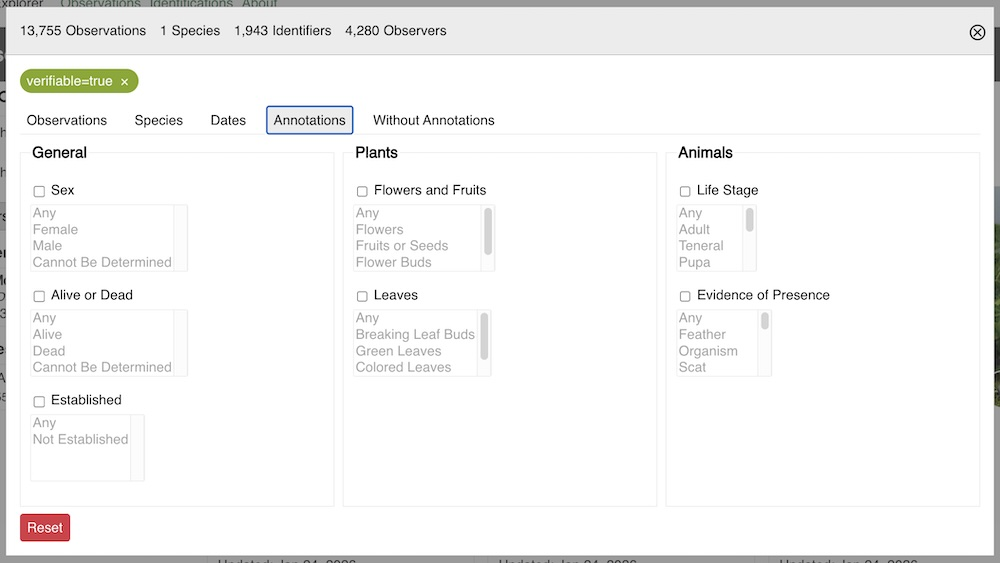
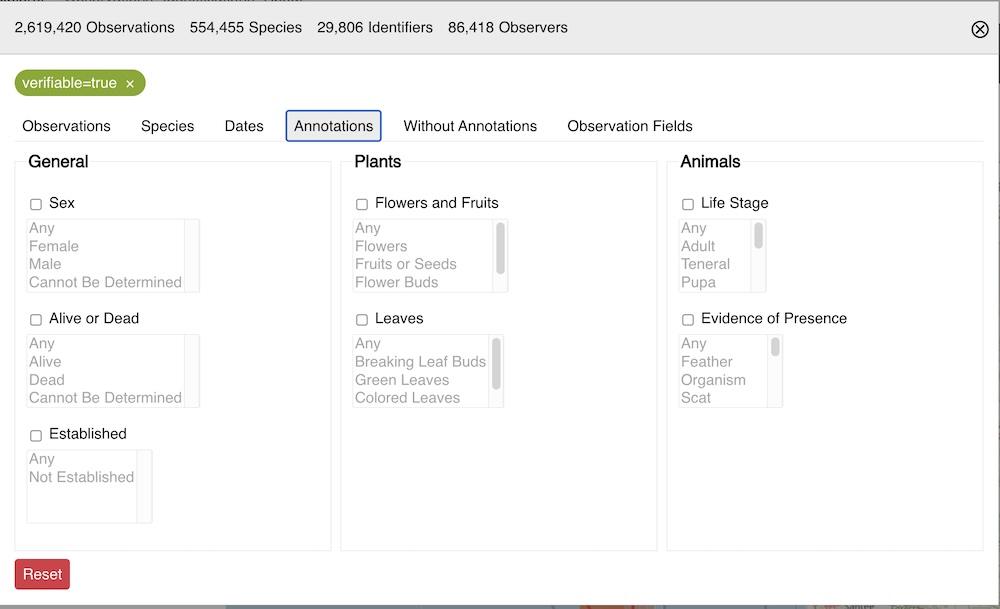
add instructions to about page

diff --git a/src/components/PageAbout/template.ts b/src/components/PageAbout/template.ts
@@ -8,14 +8,17 @@ import grid_ident from "../../assets/images/identifications_grid.jpg";
 import history_ident from "../../assets/images/identifications_history.jpg";
 import settings from "../../assets/images/settings.jpg";
 import custom_boundaries from "../../assets/images/custom_boundaries.jpg";
-import download from "../../assets/images/download.jpg";
+import inat_links from "../../assets/images/inat_links.jpg";
 import subspecies_results from "../../assets/images/subspecies_results.jpg";
 import subspecies_filters from "../../assets/images/subspecies_filters.jpg";
-
 import annotations from "../../assets/images/annotations.jpg";
 import filters from "../../assets/images/filters.jpg";
 import searchUsers from "../../assets/images/search_types.jpg";
 import map_layers from "../../assets/images/map_layers.jpg";
+import observation_fields from "../../assets/images/observation_fields.jpg";
+import observation_fields_eating from "../../assets/images/observation_fields_eating.jpg";
+import observation_fields_taxon from "../../assets/images/observation_fields_taxon.jpg";
+import fields_displayed from "../../assets/images/fields_displayed.jpg";
 
 export const template = html`
   <site-header></site-header>
@@ -34,6 +37,17 @@ export const template = html`
     <h2>Features</h2>
     <ol>
       <li>
+        Search observations by Species, iNaturalist places, Projects, Observers
+        (people who add observations), Identifiers(people who add
+        identifications), and Annotators (people who add annotations). Also
+        exclude items from search.
+        <img
+          src="${searchUsers}"
+          alt="dropdown search menu has options to search by species, places, projects, observers, identifiers, and annotators"
+        />
+      </li>
+
+      <li>
         Search for multiple species, places, projects, and people. Here's a
         search for
         <a
@@ -41,24 +55,54 @@ export const template = html`
           >monarchs and narrowleaf milkweed</a
         >
         in Los Angeles and San Diego.
+        <app-accordion
+          data-title="Instructions"
+          data-content="<ol>
+            <li>'Search for' should be 'Observed Species'</li>
+            <li>Type 'monarch' and select item in the popup menu</li>
+            <li>Type 'narrowleaf milkweed' and select item</li>
+            <li>Change 'Search for' to 'iNaturalist Places'</li>
+            <li>Type 'Los Angeles' and select item</li>
+            <li>Type 'San Diego' and select item</li>
+            <li>If you want to delete any of the selected item, click the 'X'</li>
+          </ol>"
+          data-id="multiple-records"
+        ></app-accordion>
         <img
           src="${observations}"
           alt="Monarch and narrowleaf milkweed observations in Los Angeles and San Diego."
         />
       </li>
+
       <li>
         View both observations and
         <a
           href="/identifications/?observation_taxon_id=48662,56851&place_id=962,829&colors=%234477aa,%2366ccee&verifiable=true&spam=false"
           >identifications</a
         >
+        <app-accordion
+          data-title="Instructions"
+          data-content="<ol>
+            <li>Click 'Identifications' in the top menu</li>
+          </ol>"
+          data-id="view-identifications"
+        ></app-accordion>
         <img
           src="${identifications}"
           alt="Monarch and narrowleaf milkweed identifications in Los Angeles and San Diego."
         />
       </li>
+
       <li>
         Show iNaturalist maps as grid, points, heatmap and taxon range
+        <app-accordion
+          data-title="Instructions"
+          data-content="<ol>
+            <li>Click on layers button in the upper right of the map</li>
+            <li>Click on the checkbox to turn on / turn off map layers.</li>
+          </ol>"
+          data-id="map-layers"
+        ></app-accordion>
         <img
           src="${map_layers}"
           alt="Map of monarch and narrowleaf milkweed observations in Los Angeles and San Diego. Map  allows user to select grid, points, heatmap, and taxon range. "
@@ -72,9 +116,18 @@ export const template = html`
         >
         as map, grid (one photo is displayed), media (all photos and audio are
         displayed), or table
+        <app-accordion
+          data-title="Instructions"
+          data-content="<ol>
+            <li>Click on 'Map', 'Grid', 'Media', or 'Table' button.</li>
+          </ol>"
+          data-id="change-subview"
+        ></app-accordion>
       </li>
+
       <li>
-        View annotations on grid and media
+        View annotations and observations fields on grid and media
+
         <figure>
           <figcaption>Grid view</figcaption>
           <img
@@ -97,6 +150,7 @@ export const template = html`
           />
         </figure>
       </li>
+
       <li>
         <a
           href="/identifications/?taxon_id=48662&place_id=962&colors=%234477aa&verifiable=true&spam=false&year=2025"
@@ -104,6 +158,14 @@ export const template = html`
         >
         as map, grid (one identification per observation), or history (all
         identifications per observation)
+        <app-accordion
+          data-title="Instructions"
+          data-content="<ol>
+            <li>Click 'Identifications' in the top menu</li>
+            <li>Click on 'Map', 'Grid', or 'History' button.</li>
+          </ol>"
+          data-id="identifications-subviews"
+        ></app-accordion>
         <figure>
           <figcaption>Grid view</figcaption>
           <img
@@ -119,38 +181,127 @@ export const template = html`
           />
         </figure>
       </li>
-      <li>Add more filters options</li>
+
+      <li>
+        Add over 50 options to filter the observations
+        <app-accordion
+          data-title="Instructions"
+          data-content="<ol>
+            <li>Click 'Filters' button. A popup modal will appear.</li>
+            <li>The filters are grouped by tabs and topics. Click on 'Observations',
+            'Species', etc to change tabs.</li>
+            <li>Click or select the filters you want. Hover over the circled
+            question mark to learn about each filter. </li>
+            <li>You can swlect one or more items from  rectanglar menus that
+            show multiple items such as 'Quality Grade' and 'License'. To select
+            multiple items you command click (Mac) or ctrl click (Windows), and
+            select one item at a item. You can also click and drag to select
+            multiple items.</li>
+            <li>When you select a filter, the counts on at the top of the modal
+            will be updated.</li>
+            <li>The selected filters will be shown at the top of modal as green
+            rounded rectangles. </li>
+            <li> Click on 'X' to delete one filter. If you want to delete all
+            filters, scroll to bottom of modal and click 'Reset' </li>
+          </ol>"
+          data-id="map-layers"
+        ></app-accordion>
+      </li>
+
       <li>
         Group the filters by categories
         <img src="${filters}" alt="Available filters" />
       </li>
+
       <li>
         Filter by annotations
+        <app-accordion
+          data-title="Instructions"
+          data-content="<ol>
+            <li>Click 'Filters' button.</li>
+            <li>Click 'Annotations' tab</li>
+            <li>Click one of the checkboxes to enable the corresponding selection menu</li>
+            <li>Select one or more items in the selection menu</li>
+          </ol>"
+          data-id="annotations"
+        ></app-accordion>
         <img src="${annotations}" alt="Available annotations filters" />
       </li>
+
       <li>
-        Search observations by Species, iNaturalist places, Projects, Observers
-        (people who add observations), Identifiers(people who add
-        identifications), and Annotators (people who add annotations). Also
-        exclude items from search.
+        Filter by observation fields
+        <app-accordion
+          data-title="Instructions"
+          data-content="<ol>
+            <li>Click 'Filters' button.</li>
+            <li>Click 'Observation Fields' tab</li>
+            <li>Type in observation field and select the item from the popup menu</li>
+            <li>If you want to fill in a value for the observation field, type in the value.</li>
+            <li>For some observation fields such as eating, the value is the name of species.
+            Type in the species name, and select the corresponding item from the popup menu.</li>
+          </ol>"
+          data-id="observation-fields"
+        ></app-accordion>
         <img
-          src="${searchUsers}"
-          alt="dropdown search menu has options to search by species, places, projects, observers, identifiers, and annotators"
+          src="${observation_fields}"
+          alt="Available observation fields filters"
         />
+        <figure>
+          <figcaption>Observation field popup menu for 'eating'</figcaption>
+          <img
+            src="${observation_fields_eating}"
+            alt="pop menu showing a list of observations fields that match the term 'eating'"
+          />
+        </figure>
+        <figure>
+          <figcaption>
+            Observation field 'eating' has species for the value. Type in
+            species name, and a popup menu will show list of matching species.
+          </figcaption>
+          <img
+            src="${observation_fields_taxon}"
+            alt="pop menu showing a list of species that match 'ray'"
+          />
+        </figure>
       </li>
+
       <li>
         Draw a rectangle to select observations within the rectangle
+        <app-accordion
+          data-title="Instructions"
+          data-content="<ol>
+            <li>Click square button on the upper left of the map</li>
+            <li>Click on the map to set one corner the rectangle.</li>
+            <li>Drag and click to select the second corner of the rectangle</li>
+            <li>'Custom Boundary' will be shown in 'Places'. </li>
+          </ol>"
+          data-id="bounding-box"
+        ></app-accordion>
         <img src="${custom_boundaries}" alt="" />
       </li>
+
       <li>
-        Display list of subspecies if tank rank lower than species is selected.
-        In this example, we search for
+        Display list of taxa with rank lower than species such as subspecies and
+        variety. In this example, we use to 'Rank' filter to select
         <a
           href="/?taxon_id=55412&colors=%234477aa&verifiable=true&spam=false&rank=infrahybrid,subspecies,variety&per_page=24&view=observations_species"
         >
-          infrahybrid,subspecies, and variety</a
+          infrahybrid,subspecies, and variety ranks</a
         >
         for Radishes (Genus Raphanus).
+        <app-accordion
+          data-title="Instructions"
+          data-content="<ol>
+            <li>set 'Search for' to 'Observed Species'</li>
+            <li>Type in 'radishes'</li>
+            <li>Click 'Species' in the dark header bar to see list of species.</li>
+            <li>Click 'Filters' button</li>
+            <li>Click 'Species' in the popup modal</li>
+            <li>Go to 'Rank', 'Rank'. Select one or more of the ranks. In this
+            example, we selected 'infrahybrid','subspecies','variety'.</li>
+          </ol>"
+          data-id="subspecies"
+        ></app-accordion>
         <img
           src="${subspecies_filters}"
           alt="Select subspecies ranks using the filters"
@@ -162,21 +313,85 @@ export const template = html`
       </li>
 
       <li>Mobile friendly layout</li>
+
       <li>Pagination for observations, species, identifiers, and observers</li>
-      <li>Set the order for species common names and Latin scientific names</li>
-      <li>Set the language for the species common names</li>
+
       <li>
-        Set the number of records show per page
+        Set the order for species common names and Latin scientific names
+        <app-accordion
+          data-title="Instructions"
+          data-content="<ol>
+            <li>Click on the gear icon to show the 'Settings' menu</li>
+            <li>Use the dropdown for 'Common / Scientific Name Display Order' to set
+            the order of the common and scientific taxa names.</li>
+          </ol>"
+          data-id="name-order"
+        ></app-accordion>
         <img
           src="${settings}"
           alt="Settings menu with common names/scientific names order, common names language, and records per page"
         />
       </li>
+
+      <li>
+        Set the language for the species common names
+        <app-accordion
+          data-title="Instructions"
+          data-content="<ol>
+            <li>Click on the gear icon to show the 'Settings' menu</li>
+            <li>Use the dropdown for 'Common Name Language' to set
+            the language for the species common names.</li>
+          </ol>"
+          data-id="name-order"
+        ></app-accordion>
+      </li>
+
+      <li>
+        Set the number of records show per page
+        <app-accordion
+          data-title="Instructions"
+          data-content="<ol>
+            <li>Click on the gear icon to show the 'Settings' menu</li>
+            <li>Use the dropdown for 'Records per Page' to set
+            the number of items to show.</li>
+          </ol>"
+          data-id="per-page"
+        ></app-accordion>
+      </li>
+
+      <li>
+        Set the fields that are displayed for the observations grid and media.
+        <app-accordion
+          data-title="Instructions"
+          data-content="<ol>
+            <li>Click on the gear icon to show the 'Settings' menu</li>
+            <li>Click the checkboxes for  'Fields Display' to set
+            which fields are displayed.</li>
+          </ol>"
+          data-id="display-fields"
+        ></app-accordion>
+        <img
+          src="${fields_displayed}"
+          alt="click checkbox to set  which fields are displayed"
+        />
+      </li>
+
       <li>
         Users can use the search queries created on this site for the iNaturlist
         Explore, Identify, and Export pages by clicking on the links in the
         iNaturalist Links menu.
-        <img src="${download}" alt="Links in the iNaturalist Links menu" />
+        <app-accordion
+          data-title="Instructions"
+          data-content="<ol>
+            <li>Use search and filters to select the observations you want</li>
+            <li>Click on the box with arrow icon to show the 'iNaturalist links' menu</li>
+            <li>Click 'Explore page', 'Identify page', or 'Export page' to go to
+           corresponding page on the iNaturalist site. Click 'Observations API' to view
+           the data retrieved from the iNaturalist observation API.</li>
+          </ol>"
+          data-id="inat-links"
+        ></app-accordion>
+        <img src="${inat_links}" alt="Links in the iNaturalist Links menu" />
       </li>
     </ol>
 

diff --git a/src/assets/style.css b/src/assets/style.css
@@ -1642,6 +1642,14 @@
     border: var(--border-grey);
     margin: 1rem 0;
   }
+
+  li {
+    margin: 1rem 0;
+  }
+
+  details {
+    margin: 1rem 0;
+  }
 }
 
 @layer utils {
